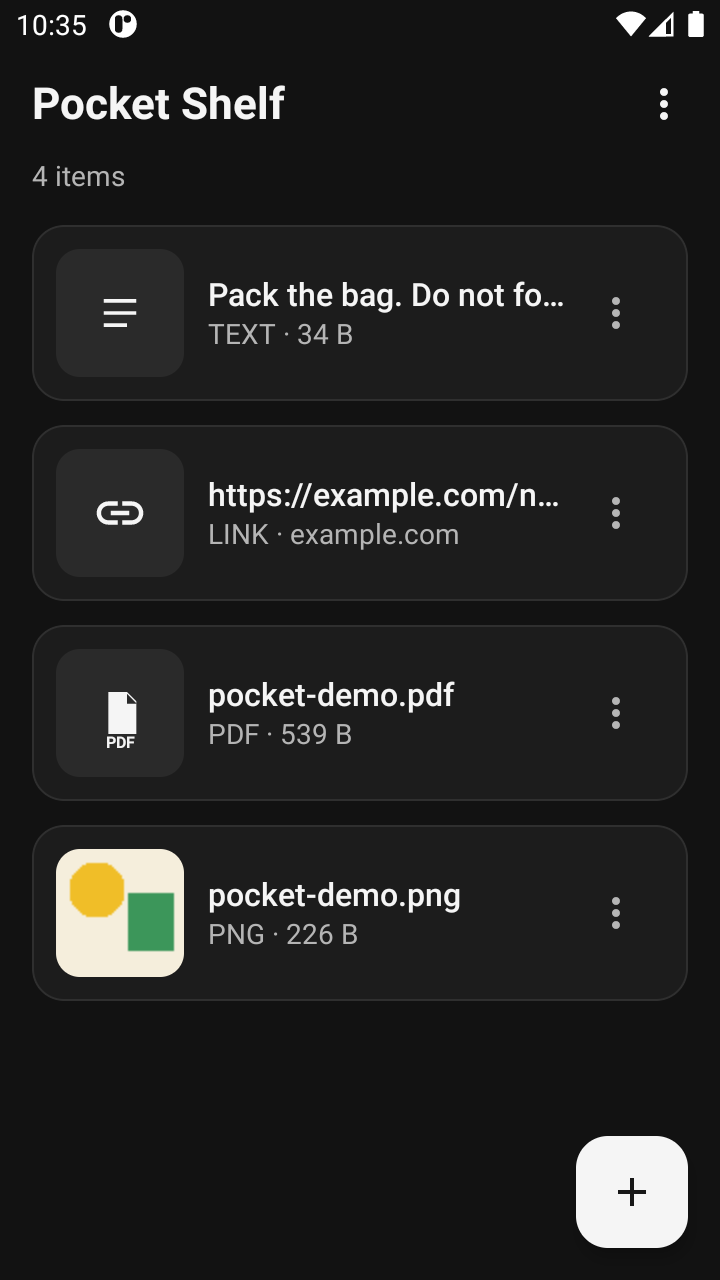
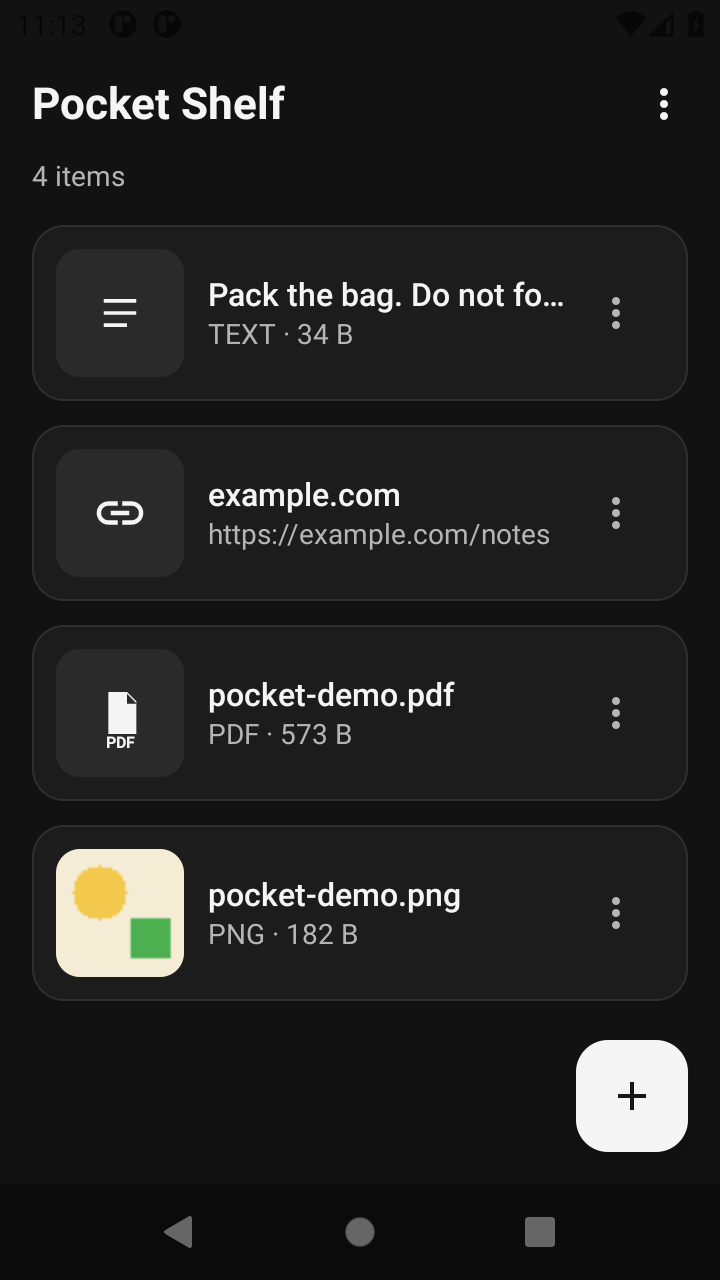
Recapture text/link stills with hostname title chrome.
Light and dark emulator shots now show LINK rows as hostname plus
URL subtitle, with TEXT rows still first line plus TEXT · size.

diff --git a/docs/demo/CAPTURE.md b/docs/demo/CAPTURE.md
@@ -11,7 +11,7 @@ Assets in this folder were taken from the **running debug app** on an emulator, 
 | `populated-light.png` | Two items (PDF + PNG thumb), light, 1 dp `#E4E4E4` card stroke, **2 items** |
 | `populated-dark.png` | Same list, dark (earlier take) |
 | `add-list-share-remove.mp4` | Empty light → **in-app document picker** add PNG → picker add PDF → both rows → system Share sheet → Remove PDF → Remove last PNG → empty chrome again, **no** stale “1 item” |
-| `text-link-light.png` | Light list after `ACTION_SEND text/plain`: TEXT row + LINK row (hostname metadata) mixed with PDF + PNG, **4 items** |
+| `text-link-light.png` | Light list after `ACTION_SEND text/plain`: TEXT row (first line + `TEXT · size`) + LINK row (**hostname title**, truncated URL subtitle) mixed with PDF + PNG, **4 items** |
 | `text-link-dark.png` | Same four rows, dark |
 
 `add-list-share-remove.mp4` is **58 s**, 720×1280, H.264, 12 fps.
@@ -22,8 +22,8 @@ Assets in this folder were taken from the **running debug app** on an emulator, 
 - Debug APK: `:app:assembleDebug` on the text+link slice (`text/plain` share-in)
 - Package: `com.shobhankarthish.pocket`
 - Theme: `adb shell cmd uimode night no`
-- Accel: **KVM** (`-accel on -gpu swiftshader_indirect`). `/dev/kvm` is usable after `chmod 666`.
-- Frames: emulator console `screenrecord start` / `screenshot` (host path). Input: console `event mouse`.
+- Accel: **TCG** (`-accel off -gpu swiftshader_indirect`). Nested KVM kernel-BUGs in `kvm_arch_vcpu_create` even after `chmod 666 /dev/kvm`.
+- Frames: emulator console `screenrecord screenshot` (host path). `adb screencap` can be black under TCG. Input: console `event mouse` / `event send EV_KEY`.
 
 ## Collect / add (this take)
 
@@ -35,10 +35,10 @@ How-to sheet was already dismissed (`how_to_add_seen`) so the empty launch is th
 
 ## Text and link stills
 
-`text-link-light.png` and `text-link-dark.png` are emulator-console screenshots after two `ACTION_SEND` `text/plain` extras on top of the existing PDF + PNG:
+`text-link-light.png` and `text-link-dark.png` are emulator-console screenshots of the four-item list after two `ACTION_SEND` `text/plain` extras (plus PDF + PNG still on the shelf):
 
-- `Pack the bag. Do not forget socks.` → TEXT row, `TEXT · 34 B`, `files/shelf/<id>.txt`
-- `https://example.com/notes` → LINK row, `LINK · example.com`, `files/shelf/<id>.url`
+- `Pack the bag. Do not forget socks.` → TEXT row title is the first line, subtitle `TEXT · 34 B`, `files/shelf/<id>.txt`
+- `https://example.com/notes` → LINK row title is **`example.com`**, subtitle is the URL (`https://example.com/notes`, ellipsized when it does not fit), `files/shelf/<id>.url`
 
 Share-out of the text row opened the system sheet with that prose as `EXTRA_TEXT` (Copy / Pocket / Bluetooth / Gmail / Messages). Remove of that row left **3 items** and deleted the `.txt`.
 
